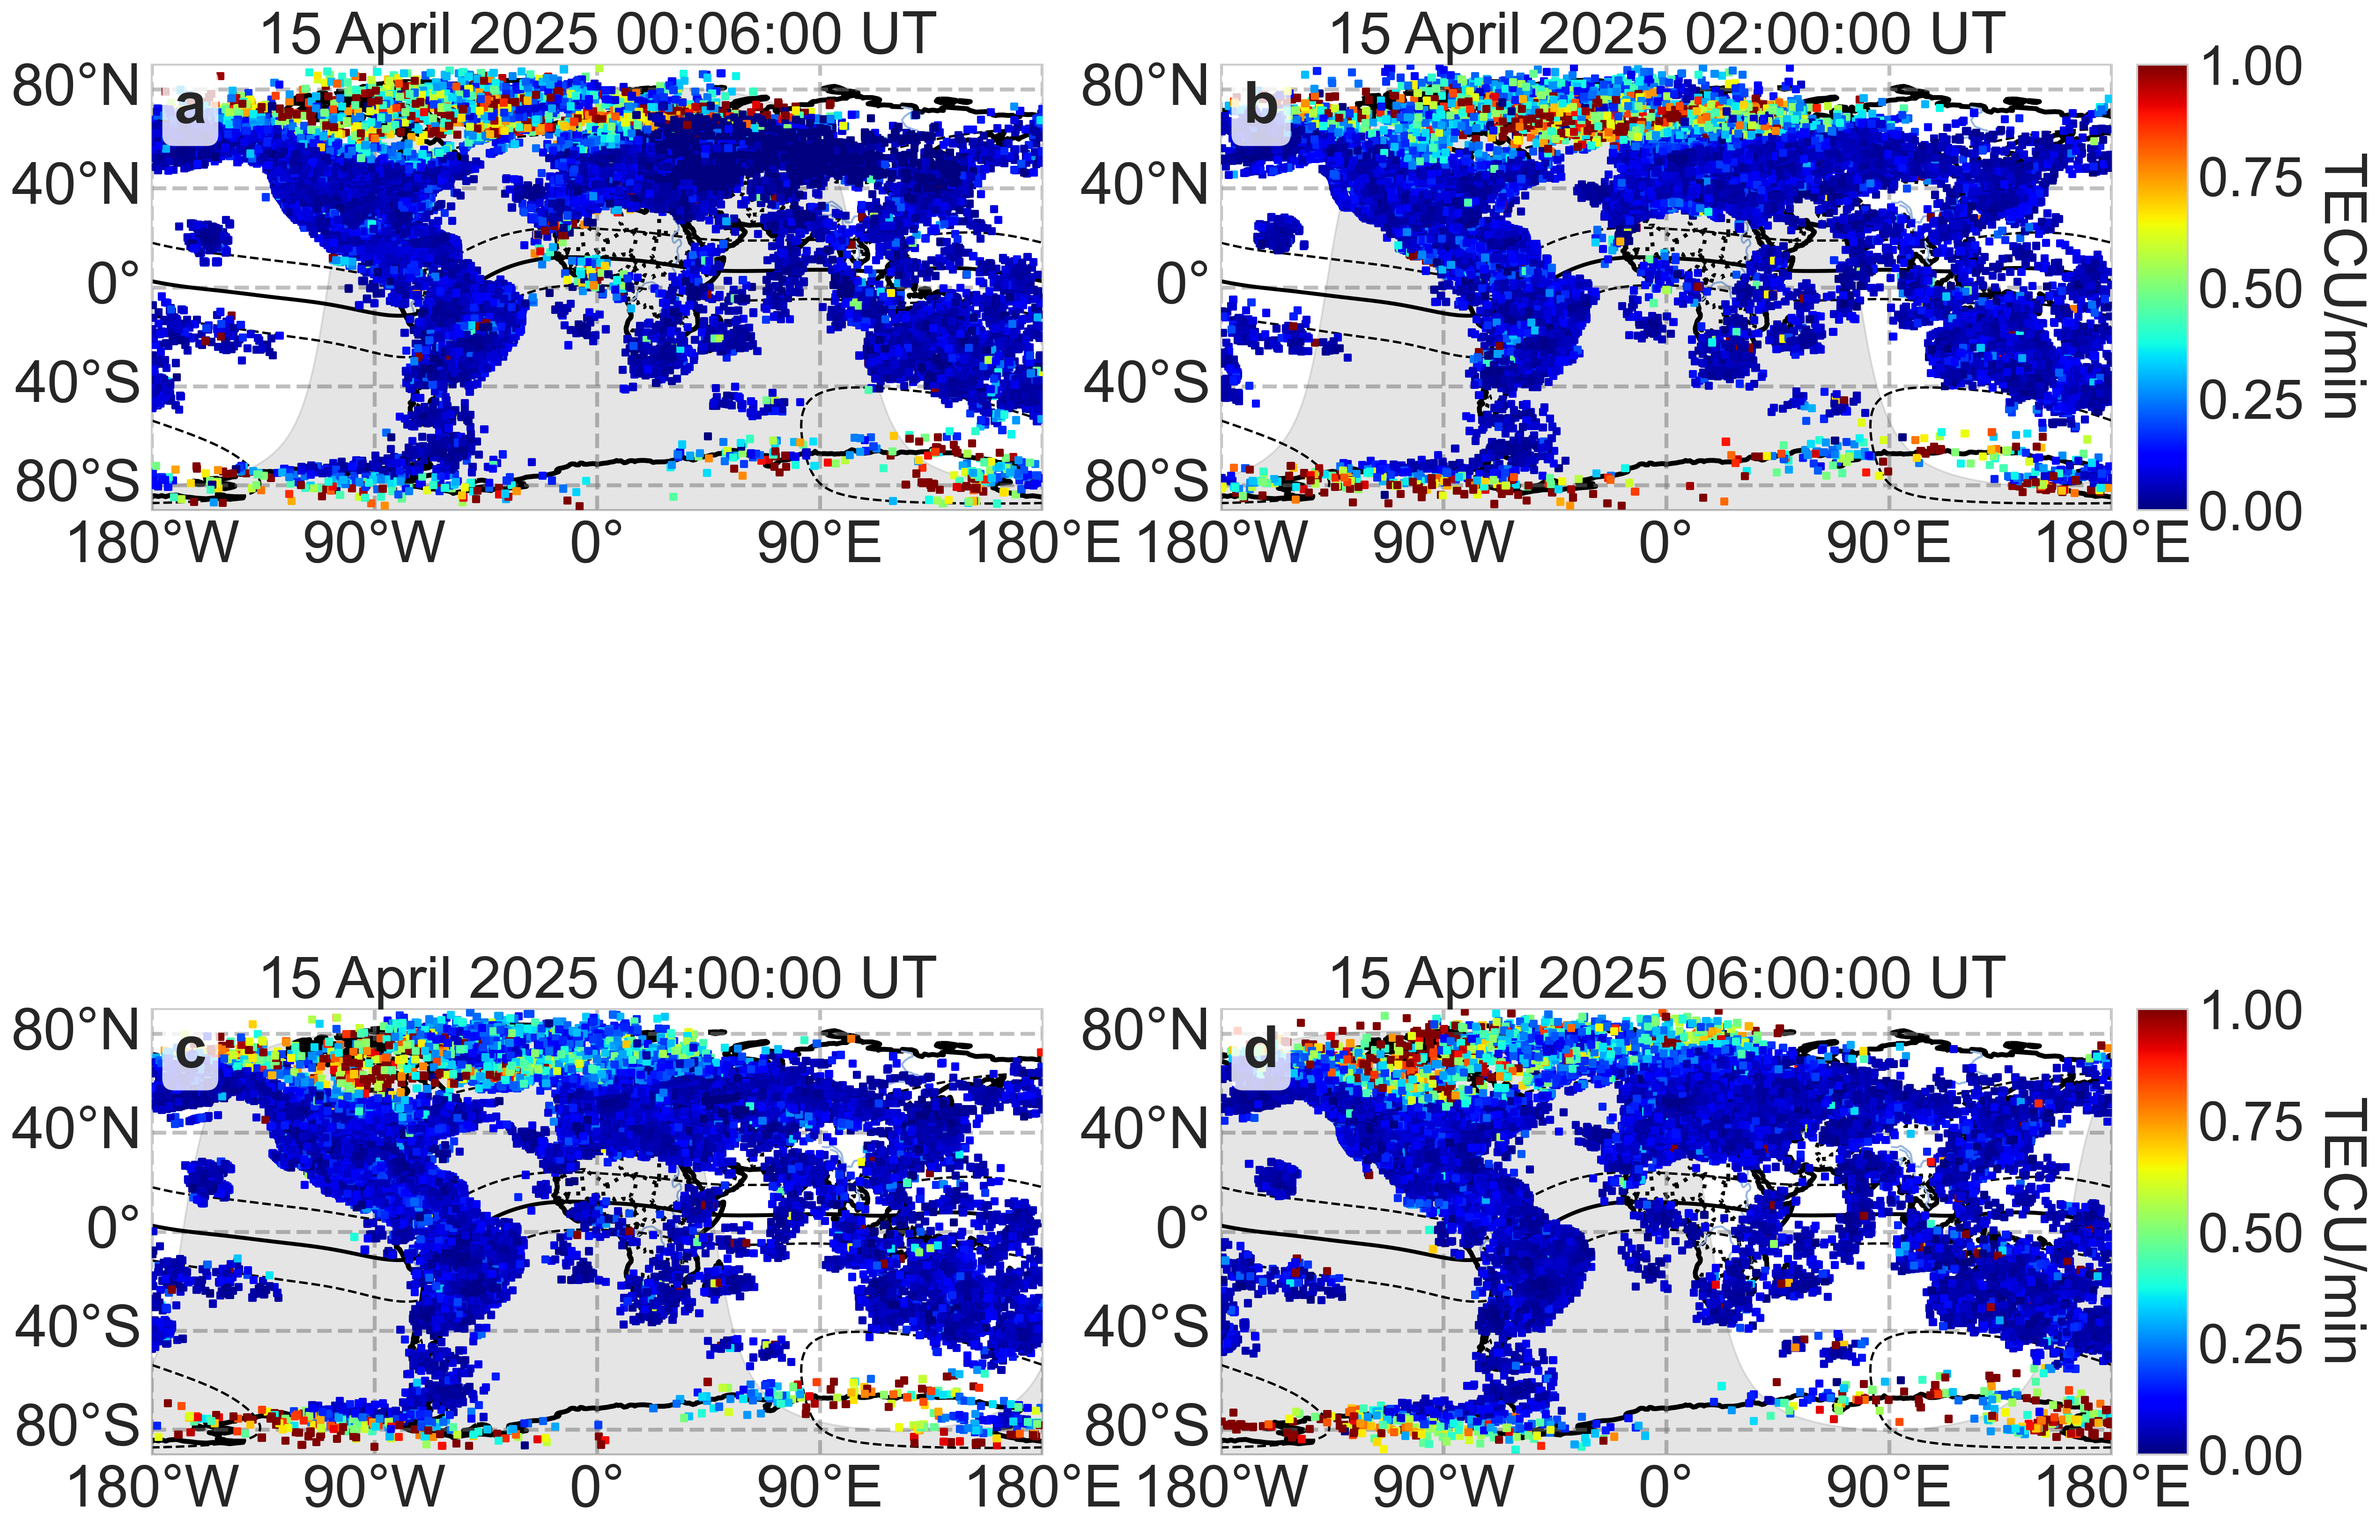
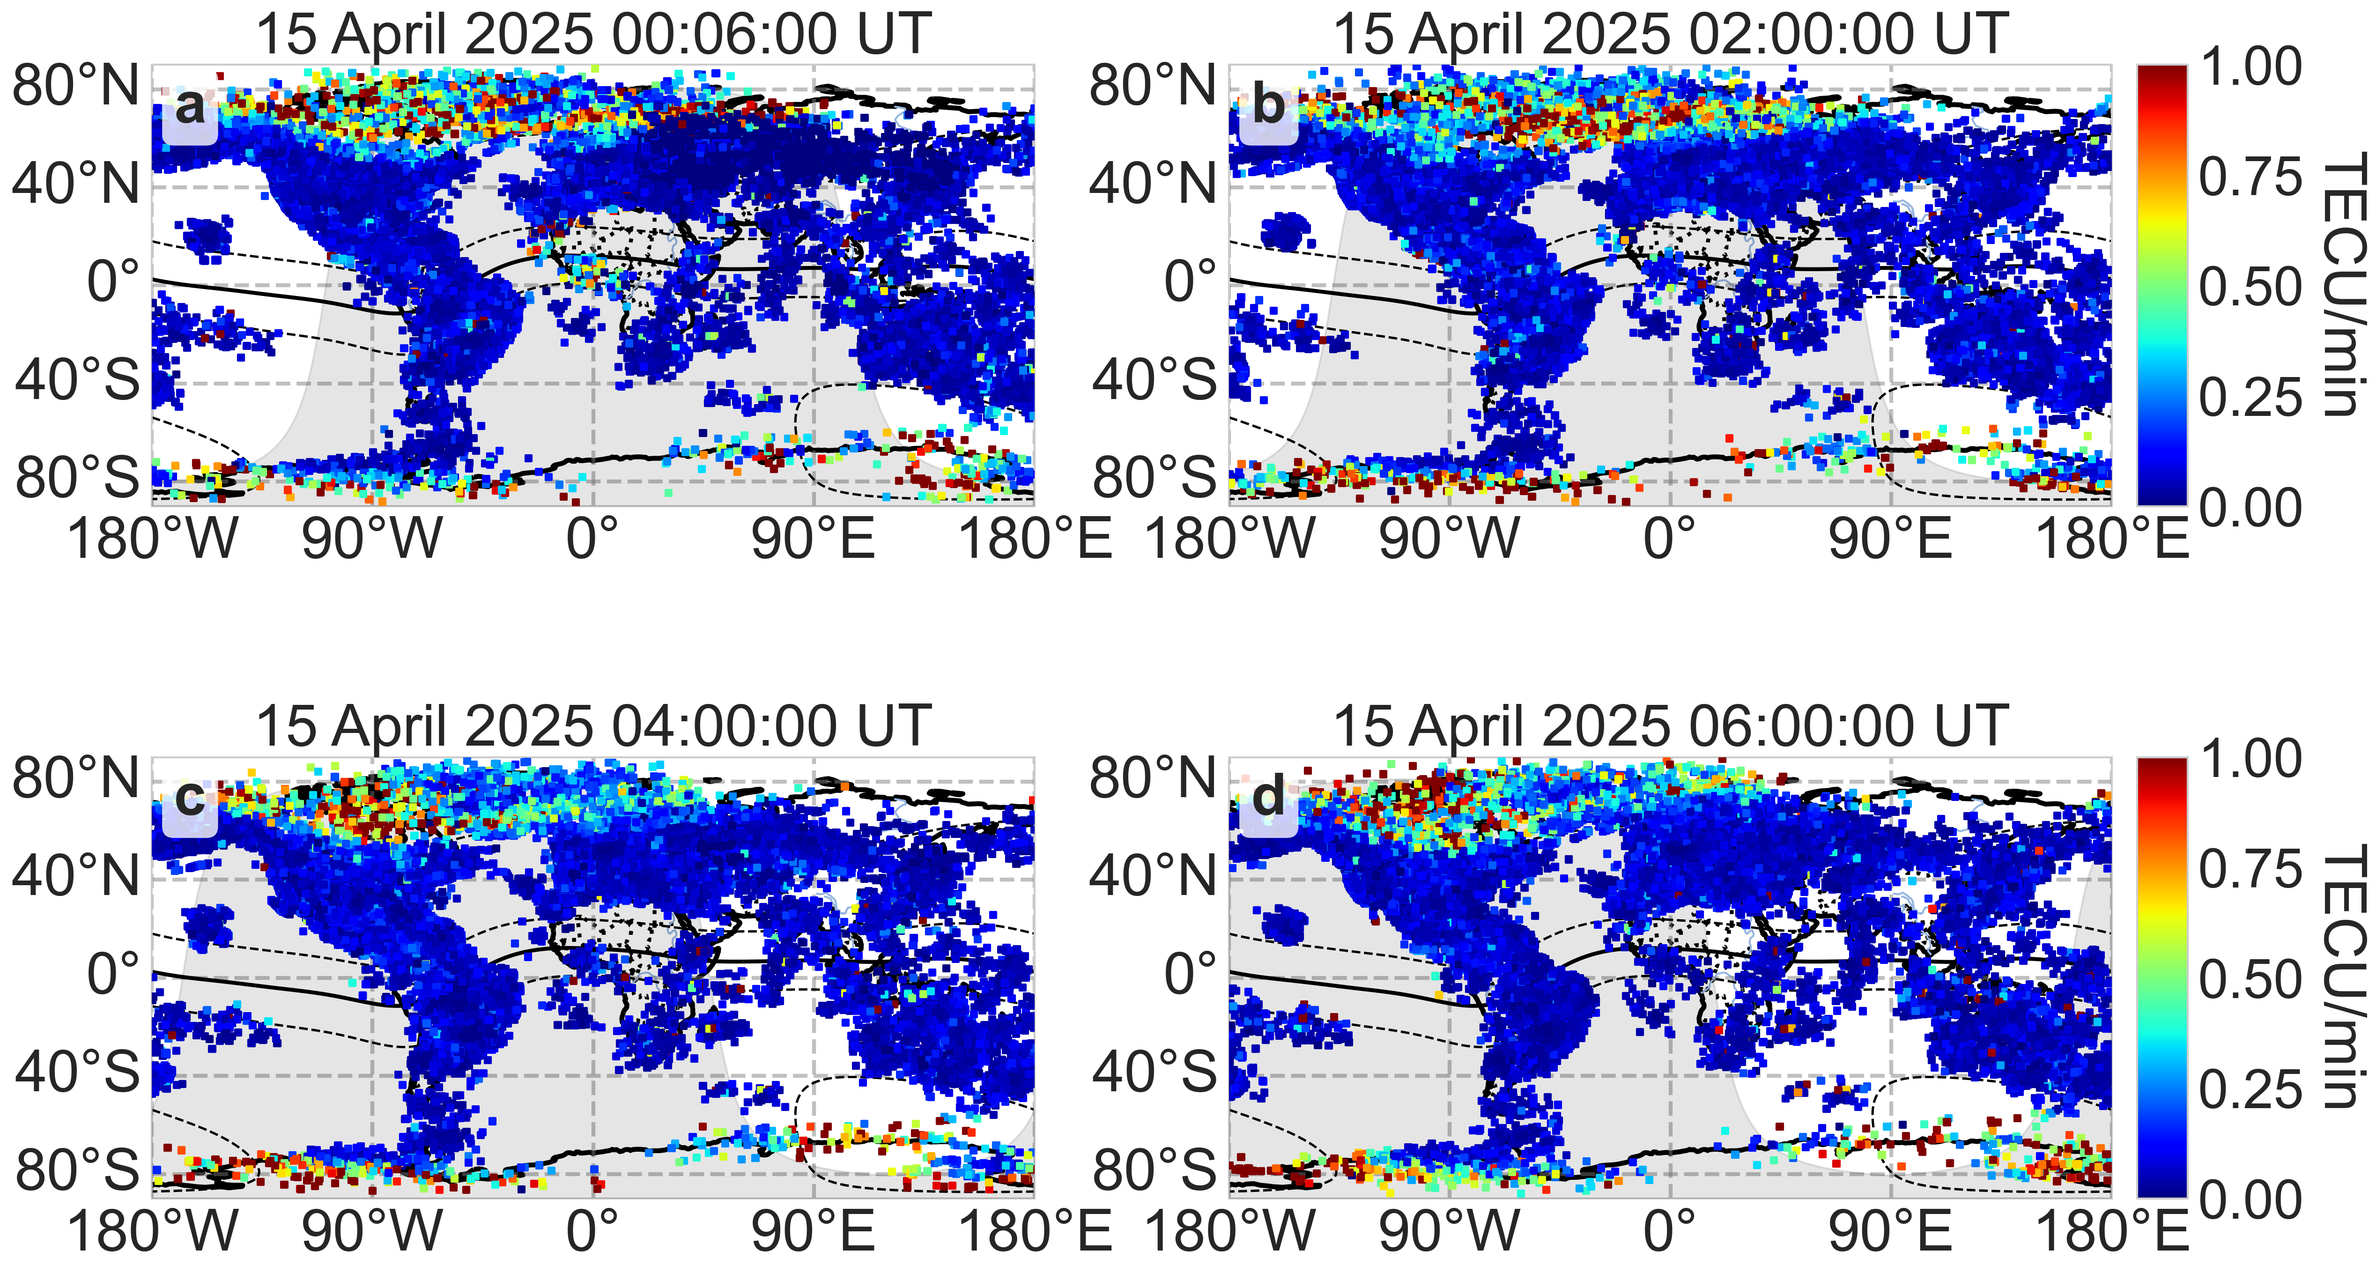
fix adjust plot layout spacing

diff --git a/app/visualization/ionosonde_plotter.py b/app/visualization/ionosonde_plotter.py
@@ -194,12 +194,12 @@ def plot_ionosonde(
         axes[-1].set_xlabel("Time, UT", fontweight="bold")
 
     fig.suptitle(format_ionosonde_title(df), fontweight="bold")
-    align_ylabels(axes, left_x=-0.075, right_x=1.07)
-    fig.subplots_adjust(hspace=0.5, top=0.92, bottom=0.1, left=0.08, right=0.97)
+    align_ylabels(axes, left_x=-0.055, right_x=1.055)
+    fig.subplots_adjust(hspace=0.5, top=0.92, bottom=0.1, left=0.12, right=0.96)
 
     os.makedirs(save_dir, exist_ok=True)
     save_path = os.path.join(save_dir, "ionosonde.png")
 
-    fig.savefig(save_path)
+    fig.savefig(save_path, bbox_inches="tight", pad_inches=0.12)
 
     return fig

diff --git a/app/visualization/roti_plotter.py b/app/visualization/roti_plotter.py
@@ -175,13 +175,15 @@ def plot_map(
 
     nrows = max(1, ceil(len(plot_times) / ncols))
     subplot_marks = panel_labels(nrows * ncols)
+    fig_height = max(5.2, 5.7 * nrows)
 
     fig, axs = plt.subplots(
-        figsize=(18, 16),
+        figsize=(18, fig_height),
         nrows=nrows,
         ncols=ncols,
         subplot_kw={"projection": ccrs.PlateCarree()}
     )
+    fig.subplots_adjust(hspace=0.28, wspace=0.22)
 
     axs = axs.flatten() if nrows * ncols > 1 else [axs]
 
